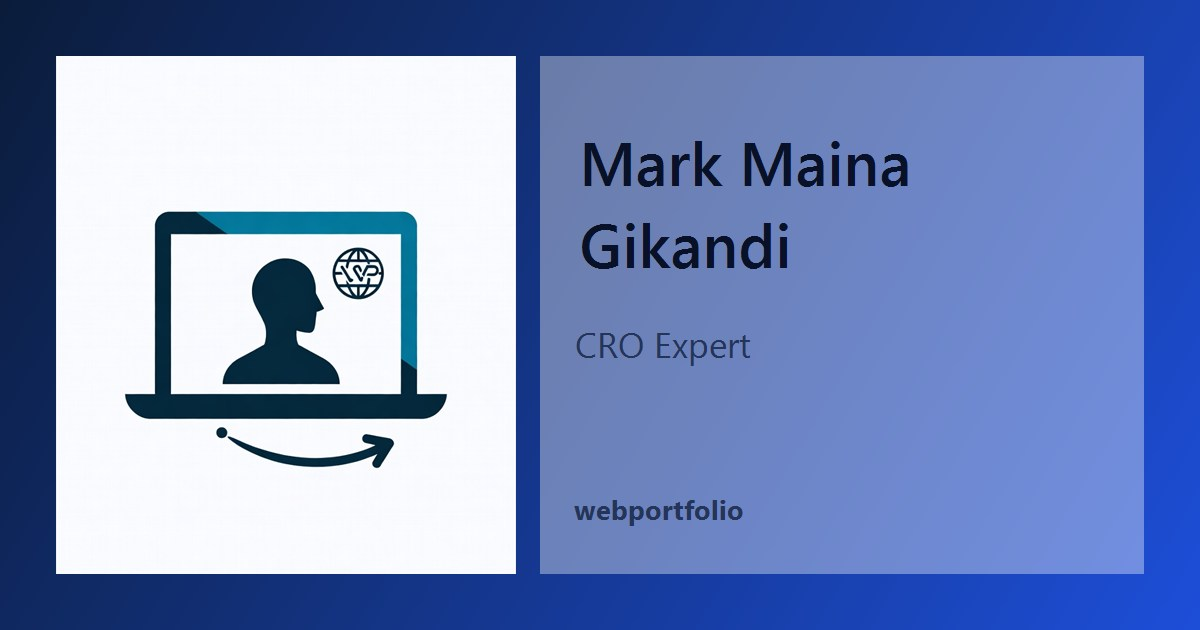
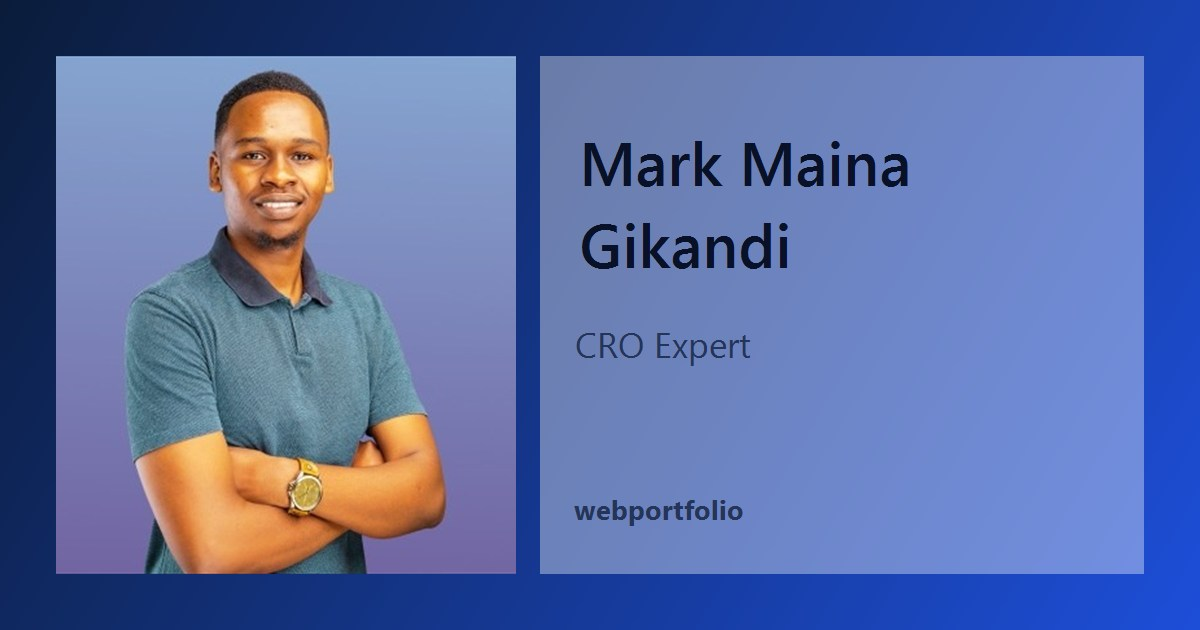
Update Mark portfolio with provided WhatsApp profile image

diff --git a/mark-maina-gikandi/index.html b/mark-maina-gikandi/index.html
@@ -104,6 +104,8 @@
   <link rel="apple-touch-icon" href="assets/favicon.png"/>
   <meta property="og:image:width" content="1200"/>
   <meta property="og:image:height" content="630"/>
+  <link rel="icon" type="image/png" href="assets/favicon.png"/>
+  <link rel="apple-touch-icon" href="assets/favicon.png"/>
 </head>
 <body class="bg-surface font-body text-on-surface">
 <!-- TopNavBar -->
@@ -446,3 +448,4 @@
 </div>
 </footer>
 </body></html>
+
